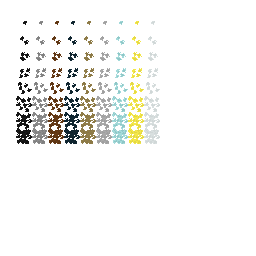
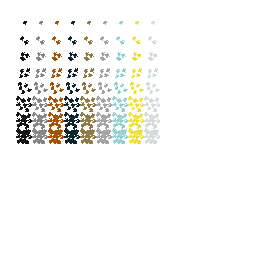
Add item tooltips

Changed region(s): [[0.1875, 0.1562, 0.25, 0.5625], [0.2188, 0.0625, 0.25, 0.0938], [0.1875, 0.125, 0.2188, 0.1562]]

diff --git a/src/A13RocketPart.h b/src/A13RocketPart.h
@@ -42,7 +42,7 @@ public:
     void onActivate(EGE::Vec2i, const StateType&) {}
 };
 
-class A13RocketPartItem : public EGE::GameplayObject, public BuilderItem<A13GUIProjectBuilder_Tilemap>
+class A13RocketPartItem : public EGE::GameplayObject, public BuilderItem<A13ProjectTilemap>
 {
 public:
     A13RocketPartItem(A13RocketPart* createdTile)
@@ -55,8 +55,15 @@ public:
 
     virtual EGE::SharedPtr<A13RocketPartPart> getPart() const;
 
+    virtual CanPlaceHere canPlaceHere(EGE::Vec2i, const A13ProjectTilemap::StateType& tile)
+    {
+        return !tile.obj ? CanPlaceHere::Yes : CanPlaceHere::No;
+    }
+
     virtual EGE::SharedPtr<EGE::ObjectMap> serialize() { return nullptr; }
     virtual void deserialize(EGE::SharedPtr<EGE::ObjectMap>) {}
+
+    virtual std::string getTooltip() { return m_tile->getId(); }
 
 private:
     A13RocketPart* m_tile;
@@ -76,15 +83,16 @@ public:
 class A13RocketPartFuelTank : public A13RocketPart
 {
 public:
-    A13RocketPartFuelTank(EGE::Size size)
-    : A13RocketPart("a13:fuel_tank:generic:" + std::to_string(size)), m_size(size) {}
+    A13RocketPartFuelTank(EGE::Size index, EGE::Size size)
+    : A13RocketPart("a13:fuel_tank:generic:" + std::to_string(size)), m_index(index), m_size(size) {}
 
     virtual EGE::Vec2d getAtlasPosition() const { return {2, 1}; }
-    virtual EGE::Vec2d getItemAtlasPosition() const { return {m_size, 3}; }
+    virtual EGE::Vec2d getItemAtlasPosition() const { return {m_index, 2}; }
     virtual EGE::Vec2u getSize() const { return {2, m_size}; }
 
 private:
     EGE::Size m_size;
+    EGE::Size m_index;
 };
 
 class A13RocketPartCone : public A13RocketPart
@@ -94,7 +102,7 @@ public:
     : A13RocketPart("a13:cone:generic") {}
 
     virtual EGE::Vec2d getAtlasPosition() const { return {0, 5}; }
-    virtual EGE::Vec2d getItemAtlasPosition() const { return {0, 5}; }
+    virtual EGE::Vec2d getItemAtlasPosition() const { return {0, 3}; }
     virtual EGE::Vec2u getSize() const { return {2, 2}; }
 
 private:
@@ -108,6 +116,6 @@ public:
     : A13RocketPart("a13:capsule:generic") {}
 
     virtual EGE::Vec2d getAtlasPosition() const { return {0, 3}; }
-    virtual EGE::Vec2d getItemAtlasPosition() const { return {0, 7}; }
+    virtual EGE::Vec2d getItemAtlasPosition() const { return {0, 4}; }
     virtual EGE::Vec2u getSize() const { return {2, 2}; }
 };

diff --git a/src/A13GameplayObjectManager.cpp b/src/A13GameplayObjectManager.cpp
@@ -20,9 +20,9 @@ void A13GameplayObjectManager::registerFactoryBuildingItem(A13FactoryBuildingIte
 void A13GameplayObjectManager::registerRocketParts()
 {
     registerRocketPart(new A13RocketPartEngine());
-    registerRocketPart(new A13RocketPartFuelTank(1));
-    registerRocketPart(new A13RocketPartFuelTank(2));
-    registerRocketPart(new A13RocketPartFuelTank(4));
+    registerRocketPart(new A13RocketPartFuelTank(0, 1));
+    registerRocketPart(new A13RocketPartFuelTank(1, 2));
+    registerRocketPart(new A13RocketPartFuelTank(2, 4));
     registerRocketPart(new A13RocketPartCone());
     registerRocketPart(new A13RocketPartCapsule());
 }

diff --git a/src/A13FactoryBuilding.h b/src/A13FactoryBuilding.h
@@ -208,6 +208,13 @@ public:
 
     virtual bool isTerrainLayer() { return true; }
 
+    virtual CanPlaceHere canPlaceHere(EGE::Vec2i pos, const A13FactoryTilemap::StateType& state)
+    {
+        if(state.addObjs[FACTORY_BUILDER_LAYER_TERRAIN] == m_placed)
+            return CanPlaceHere::Restricted;
+        return CanPlaceHere::Yes;
+    }
+
     virtual bool onPlace(A13GUIFactoryBuilder_Tilemap* tilemap, EGE::Vec2i tilePos) const
     {
         tilemap->ensureTile(tilePos).addObjs[FACTORY_BUILDER_LAYER_TERRAIN] = m_placed;

diff --git a/src/A13GUIProjectBuilder.cpp b/src/A13GUIProjectBuilder.cpp
@@ -7,7 +7,7 @@ A13GUIProjectBuilder::A13GUIProjectBuilder(EGE::GUIScreen* loop)
 {
     setBuilderBackground("gui/pb/background.png");
     setBuilderAtlas("gui/pb/rocket_parts.png");
-    setSelectorAtlas("gui/pb/rocket_parts.png");
+    setSelectorAtlas("gui/pb/items.png");
     setGPO(&A13GameplayObjectManager::instance().rocketPartItems);
     m_tilemap->setTileSize(EGE::Vec2u(16, 16));
 }

diff --git a/src/A13GUIProjectBuilder.h b/src/A13GUIProjectBuilder.h
@@ -10,4 +10,9 @@ public:
     A13GUIProjectBuilder(EGE::GUIScreen* loop);
 
     void onKeyPress(sf::Event::KeyEvent& event);
+
+    CanPlaceHere canPlaceHere(EGE::Vec2i tileRel, const A13ProjectTilemap::StateType& tile, A13RocketPartItem* item)
+    {
+        return item->canPlaceHere(tileRel, tile);
+    }
 };

diff --git a/src/Builder/BuilderItem.h b/src/Builder/BuilderItem.h
@@ -15,4 +15,7 @@ public:
 
     // returns part that corresponds to that item.
     virtual EGE::SharedPtr<typename _Tilemap::TileType::PartType> getPart() const = 0;
+
+    // returns string that appears when hovering item on left panel
+    virtual std::string getTooltip() { return "Generic Builder Item"; }
 };

diff --git a/src/Builder/PartSelectWidget.h b/src/Builder/PartSelectWidget.h
@@ -33,6 +33,7 @@ private:
     EGE::Vector<_Item*> m_items;
     sf::Texture* m_atlas = nullptr;
     TileMapObject<_Tilemap>* m_tmObject;
+    sf::Font* m_font = nullptr;
     int m_index = -1;
 };
 
